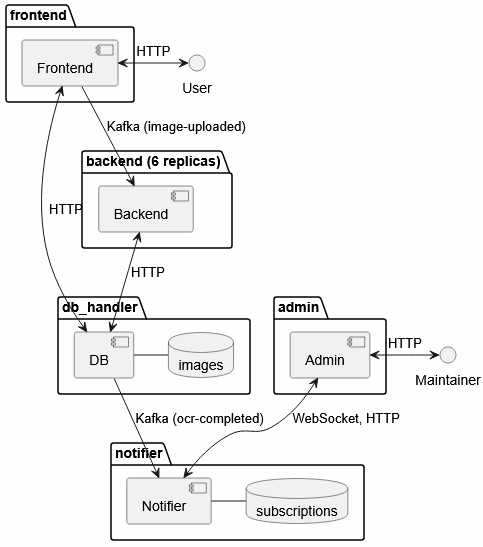
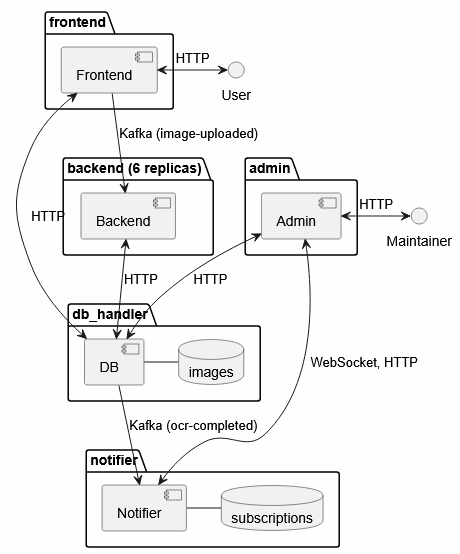
Finalized documentation

Changed region(s): [[0.0, 0.0, 1.0, 0.9945]]

diff --git a/admin/admin/templates/image/list.html b/admin/admin/templates/image/list.html
@@ -47,7 +47,7 @@ function addNotification(notification) {
     new Notify({
         status: 'success',
         title: 'New image processed!',
-        text: 'See at the bottom of the page.'
+        text: 'See at the bottom of the table.'
     })
 }
 </script>